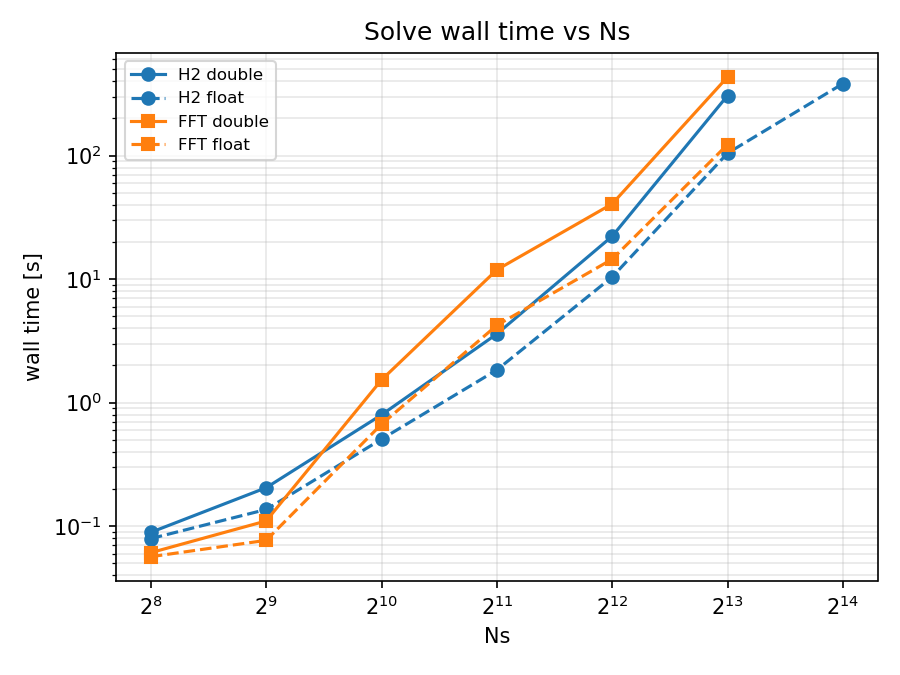
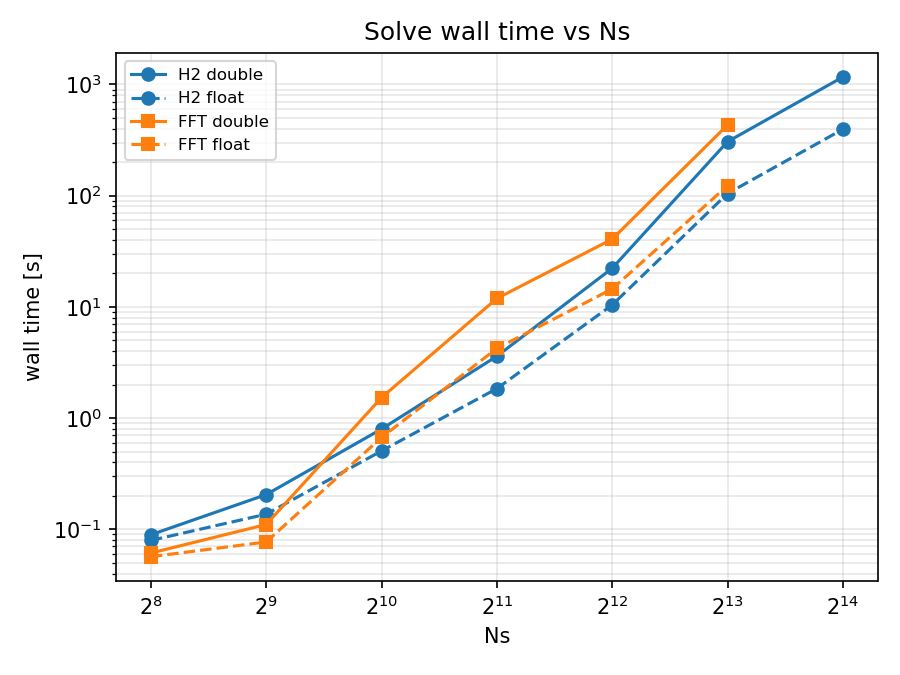
data(bench): Ns=16384 h2 fresh-reboot retest — double now fits (1168 s / 38 it)
After the zero-copy gap path + consuming warm start (75fecef, 1879b8e),
h2-double at Ns=16384 converges on the 31 GiB machine: 1167.6 s / 38 it;
h2-float 395.9 s / 25 it; contact area 0.00046 in both precisions. Both
runs report peak RSS 24.30 GiB — that is the Python surface-generation
transient, the solves themselves peak below it (matching the ~23-24 GiB
estimate scaled from the Ns=4096 A/B measurements).

Merged into data/backend_precision_study.jsonl (replacing the stale
pre-fix h2-float entry and the h2-double OOM) and regenerated the study
summary/figures. fft double/float at 16384 still carry OOM entries from
the old build — the same savings apply, retest deferred.

diff --git a/CLAUDE.md b/CLAUDE.md
@@ -125,10 +125,10 @@ Default β formula: **Polak-Ribière+** (`use_pr=true`); Fletcher-Reeves availab
 - **Stagnation guard** (`solve_contact_impl`): if the complementarity error plateaus for 200 iterations (float noise floor), stop and report `converged` instead of spinning to `max_iter`. With the double accumulators (2026-07) the float path normally reaches its clamped tol directly, so this is now a safety net rather than the usual float exit path.
 - **Preallocated solve buffers (2026-07)**: the hot loop is allocation-free in steady state. `H2Operator` owns its multipole/local scratch (`Mbuf_`/`Lbuf_`, q²×nbox, lazily sized per precision — the old per-matvec `vector<VectorXd> M,L` was ~2·nbox small mallocs per apply) and exposes `matvec_into(x, y)`; `FourierPreconditioner` owns its grid/spectrum scratch and exposes `apply_into(g, contact, z)`; `solve_contact_impl` takes into-style functors (`MatVecIntoT`/`PrecondIntoT`) and reuses `u`/`r`/`z` across iterations (public `solve_contact` adapts the old by-value functors). One `H2Operator`/`FourierPreconditioner` must not be applied from two threads concurrently.
 - **mallopt in `solve_contact_nested`** (`M_MMAP_THRESHOLD`/`M_TRIM_THRESHOLD` = 128 KB): kept as a belt-and-braces guard, but with the preallocated buffers the per-iteration large-allocation traffic (and the mmap/munmap page-fault churn it caused) is gone from the steady-state loop.
-- **Zero-copy gap path (2026-07)**: `solve_contact_nested` and `solve_contact_impl` take `g0` as `Eigen::Ref<const ...>`; `py_solve_nested` passes an `Eigen::Map` view of the numpy buffer straight through (the finest level solves on it directly, only coarse restrictions ~N/3 are materialised). Plus `res.pressure = std::move(p)` when `Real=double` (the end-of-solve copy was the peak-RSS moment). Together −2 N-sized double arrays at peak on the double path: measured 2272→2017 MB at Ns=4096, −4.3 GiB at Ns=16384 — h2-double at 16384 was ~2 GiB short post-9929c60 and is worth a fresh-reboot retest (`16k_test.py`). Beware: a caller passing a non-C-contiguous or non-float64 array still gets a forcecast temporary (correct, just not zero-copy).
+- **Zero-copy gap path (2026-07)**: `solve_contact_nested` and `solve_contact_impl` take `g0` as `Eigen::Ref<const ...>`; `py_solve_nested` passes an `Eigen::Map` view of the numpy buffer straight through (the finest level solves on it directly, only coarse restrictions ~N/3 are materialised). Plus `res.pressure = std::move(p)` when `Real=double` (the end-of-solve copy was the peak-RSS moment). Together −2 N-sized double arrays at peak on the double path: measured 2272→2017 MB at Ns=4096, −4.3 GiB at Ns=16384. Combined with the consuming warm start (next bullet) this made **h2-double fit at Ns=16384** (fresh-reboot retest 2026-07-10, see Validated Numbers). Beware: a caller passing a non-C-contiguous or non-float64 array still gets a forcecast temporary (correct, just not zero-copy).
 - **Consuming warm start (2026-07)**: `solve_contact_impl`'s `p_init` is now a non-const pointer that is **CONSUMED** (moved into the pressure iterate at init; caller may only reassign/destroy it afterwards) — the prolonged warm start no longer sits idle beside its own copy for the whole finest nested solve. The nested float path also frees the double `p_init` right after casting to `p0f`. Public `solve_contact` keeps its non-consuming const-pointer contract by copying (no peak cost — the copy becomes the iterate). Measured at Ns=4096 nested light: double 2017→1887 MB (−1 N-double), float 1584→1387 MB (−1 N-double −1 N-float) → at Ns=16384: −2.1 GiB double, −3.2 GiB float on top of the zero-copy gap savings.
 
-**Large-grid memory recipe** (memory-bound nodes, e.g. Ns=16384, N≈2.7×10⁸ on 32 GiB): `hc.solve_nested(Ns, gap, p_bar, coarsest=64, q=4, leaf_side=16, precond=True, single_precision=True, light_result=True)` → solve ≈ 100 B/DOF ≈ 27 GiB. On the Python side the surface generation (meshgrid + complex FFT temporaries) is often the real hog — build it in **float32 via broadcasting** (not `np.meshgrid`), `del` temporaries, and `ctypes.CDLL("libc.so.6").malloc_trim(0)` before the solve. See `example_rough_contact.py` (its `Ns==16384` branch). The FFT preconditioner (`fourier_precond.cpp`) stores only the kx ∈ [0, Ns/2] half spectrum with the Ns² round-trip scale folded into the symbol; scratch (one real Ns×Ns + one complex (Ns/2+1)×Ns buffer, ≈2 N reals) is object-owned and reused across iterations, and the engine is pocketfft (default, BSD) or FFTW3 plans (`-DASPHER_USE_FFTW=ON`). The mask/scatter/gather passes stay OpenMP. **Run 16384 alone** — the killer is co-tenancy (any other heavy process OOMs it).
+**Large-grid memory recipe** (memory-bound nodes, e.g. Ns=16384, N≈2.7×10⁸ on 32 GiB): `hc.solve_nested(Ns, gap, p_bar, coarsest=64, q=4, leaf_side=16, precond=True, single_precision=True, light_result=True)` → solve ≈ 100 B/DOF ≈ 27 GiB. Since the 2026-07 zero-copy gap + consuming-warm-start pass, **double precision also fits** at Ns=16384 with the same recipe minus `single_precision` (fresh-reboot retest: 38 it / 1168 s, peak below the 24.3 GiB surface-generation transient; float is still ~3× faster at 25 it / 396 s, same contact area 4.6×10⁻⁴). On the Python side the surface generation (meshgrid + complex FFT temporaries) is often the real hog — build it in **float32 via broadcasting** (not `np.meshgrid`), `del` temporaries, and `ctypes.CDLL("libc.so.6").malloc_trim(0)` before the solve. See `example_rough_contact.py` (its `Ns==16384` branch). The FFT preconditioner (`fourier_precond.cpp`) stores only the kx ∈ [0, Ns/2] half spectrum with the Ns² round-trip scale folded into the symbol; scratch (one real Ns×Ns + one complex (Ns/2+1)×Ns buffer, ≈2 N reals) is object-owned and reused across iterations, and the engine is pocketfft (default, BSD) or FFTW3 plans (`-DASPHER_USE_FFTW=ON`). The mask/scatter/gather passes stay OpenMP. **Run 16384 alone** — the killer is co-tenancy (any other heavy process OOMs it).
 - **Memory (measured, O(N) C++ solve):** `single_precision + light_result` cuts the solve by ~⅓ *with* the preconditioner on (Ns=4096: 2.31→1.57 GiB → Ns=16384 ≈ 25 GiB, fits a 32 GiB node); the float `|q|` FFT still has O(N) transients. Without the preconditioner the cut is ~½ (1.37→0.74) — but single precision **needs** the preconditioner to converge, so keep it on. At these sizes the Python **surface generation** (meshgrid + complex FFT temporaries) is often the real hog — build it in `float32` via broadcasting and free temporaries (see `example_rough_contact.py`).
 
 Key step: **overlap correction** `p_i -= τ·g_i` for nodes where p=0 and gap<0.
@@ -202,6 +202,7 @@ Fix: use plain `\begin{enumerate}` and `\begin{itemize}` without optional argume
 | Nested solve Ns=1024 double, rough p̄=0.005 (2026-07 perf pass) | 2.59 → 1.23 s (21 it, identical pressure to 9×10⁻¹⁵) |
 | Nested solve Ns=2048 float, rough p̄=0.005 (2026-07 perf pass) | 52.5 s / 214 it → 3.4 s / 21 it (area now matches double to 3×10⁻⁴ rel) |
 | f32 solve Ns=4096 (precond, light, 2026-07) | 16.3 s, 26 it, peak RSS 1.73 GiB (incl. Python surface) |
+| Nested h2 Ns=16384 fresh-reboot (rough H=0.8, p̄=0.002, q=4, leaf_side=16, 2026-07-10, post zero-copy + consuming-warm-start) | double: 1168 s / 38 it (**fits a 31 GiB node**); float: 396 s / 25 it; area 4.6×10⁻⁴ both; both peak-RSS readings = 24.30 GiB are the Python surface-generation transient, the solves peak below it |
 | FFT matvec vs dense (rel L2, double/float) | ~1×10⁻¹⁵ / ~1.4×10⁻⁷ (exact operator; test_fft) |
 | FFT matvec time Ns=1024/2048/4096 (vs H2 q=6; bench_fft.py) | 17/73/337 ms vs 27/110/331 ms → 1.60×/1.50×/0.98× (measured under desktop co-tenancy; ratios more reliable than absolutes) |
 | Nested solve Ns=4096 fft vs h2, double (p̄=0.002, seed 42) | 251 s/110 it vs 177 s/91 it, areas 0.005402 vs 0.005403 (different but both-valid PCG paths, agree to ~10⁻⁶ absolute; wall gap from BOTH the extra iterations at ~parity matvec AND load asymmetry — desktop co-tenancy, fft solves ran under heavier load; ratios indicative only) |

diff --git a/doc/backend_precision_study/summary.md b/doc/backend_precision_study/summary.md
@@ -8,13 +8,14 @@
 | h2 | double | 2048 | 3.60 | 0.63 | 16 | True | 0.00086 |
 | h2 | double | 4096 | 22.24 | 2.31 | 22 | True | 0.00068 |
 | h2 | double | 8192 | 305.97 | 8.07 | 40 | True | 0.00055 |
+| h2 | double | 16384 | 1167.63 | 24.30 | 38 | True | 0.00046 |
 | h2 | float | 256 | 0.08 | 0.06 | 8 | True | 0.00204 |
 | h2 | float | 512 | 0.14 | 0.08 | 8 | True | 0.00145 |
 | h2 | float | 1024 | 0.51 | 0.16 | 9 | True | 0.00119 |
 | h2 | float | 2048 | 1.84 | 0.46 | 11 | True | 0.00086 |
 | h2 | float | 4096 | 10.41 | 1.66 | 17 | True | 0.00068 |
 | h2 | float | 8192 | 104.55 | 6.11 | 28 | True | 0.00055 |
-| h2 | float | 16384 | 382.04 | 24.30 | 25 | True | 0.00046 |
+| h2 | float | 16384 | 395.90 | 24.30 | 25 | True | 0.00046 |
 | fft | double | 256 | 0.06 | 0.06 | 10 | True | 0.00204 |
 | fft | double | 512 | 0.11 | 0.10 | 11 | True | 0.00145 |
 | fft | double | 1024 | 1.53 | 0.24 | 13 | True | 0.00119 |
@@ -29,6 +30,5 @@
 | fft | float | 8192 | 122.90 | 8.62 | 28 | True | 0.00055 |
 
 ## Failed / incomplete cases
-- h2 double Ns=16384: status=oom
 - fft double Ns=16384: status=oom
 - fft float Ns=16384: status=oom
